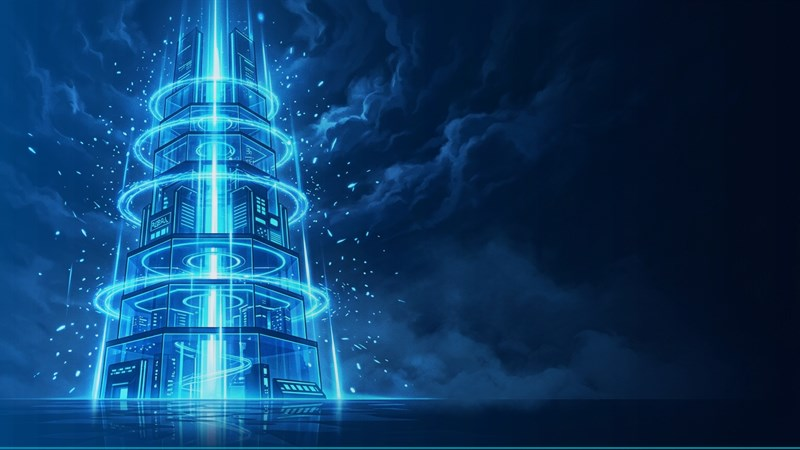
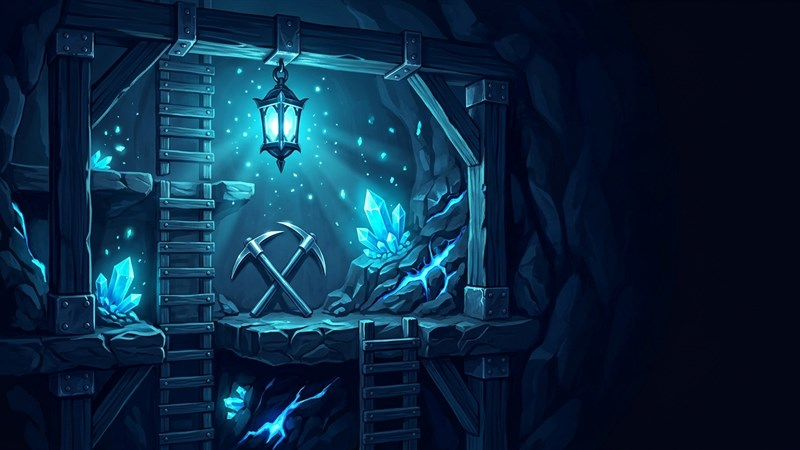
Rename Towers to Mine (Шахта), redesign card emblem and generate new blue mine cover

diff --git a/index.html b/index.html
@@ -12,7 +12,7 @@
 
     <script src="https://telegram.org/js/telegram-web-app.js"></script>
 
-    <script src="vetruch-economy.js?v=6"></script>
+    <script src="vetruch-economy.js?v=7"></script>
     <!-- Предзагрузка игр для мгновенного открытия без задержки -->
     <link rel="prefetch" href="towers.html">
     <link rel="prefetch" href="mines.html">
@@ -756,7 +756,7 @@
     filter: grayscale(40%);
 }
 
-/* ================= ШИРОКАЯ КАРТОЧКА ИГРЫ (БАШНИ) ================= */
+/* ================= ШИРОКАЯ КАРТОЧКА ИГРЫ (ШАХТА) ================= */
 .game-card.wide-card {
     grid-column: span 2;
     flex-direction: row;
@@ -4377,7 +4377,7 @@
 }
 
 /* Синие обложки игр */
-.card-towers .game-art-bg { background-image: url('game-art-towers.jpg?v=2'); background-position: 28% center; }
+.card-towers .game-art-bg { background-image: url('game-art-towers.jpg?v=3'); background-position: 28% center; }
 .card-mines .game-art-bg { background-image: url('game-art-mines.jpg?v=2'); background-position: center 22%; }
 .card-cards .game-art-bg { background-image: url('game-art-cards.jpg?v=2'); background-position: center 22%; }
 .card-balloon .game-art-bg { background-image: url('game-art-balloon.jpg?v=2'); background-position: center 20%; }
@@ -8616,51 +8616,55 @@ img {
         <div id="miniGamesSection">
         
         <div class="games-grid" style="clear: both;">
-            <!-- 1. БАШНИ (ЛЕДЯНАЯ ШАХТА) -->
-            <div class="game-card wide-card art-card card-towers anim-item" style="animation-delay: 0.05s;" onpointerdown="preloadGame('towers.html?v=7')" onclick="openGame('towers.html?v=7')">
+            <!-- 1. ШАХТА (ПОДЗЕМНЫЙ РАЗРЕЗ) -->
+            <div class="game-card wide-card art-card card-towers anim-item" style="animation-delay: 0.05s;" onpointerdown="preloadGame('towers.html?v=8')" onclick="openGame('towers.html?v=8')">
                 <div class="game-art-bg"></div>
                 <div class="game-art-scrim"></div>
                 <span class="game-card-ribbon ribbon-fire">⛏ ДО x24.5</span>
                 <div class="wide-hero-emblem emblem-towers" aria-hidden="true">
                     <svg viewBox="0 0 80 80" fill="none">
                         <defs>
-                            <linearGradient id="twBodyGrad" x1="0" y1="0" x2="1" y2="1">
+                            <linearGradient id="mineArchGrad" x1="0" y1="0" x2="1" y2="1">
                                 <stop offset="0%" stop-color="#38bdf8"/>
-                                <stop offset="55%" stop-color="#0284c7"/>
-                                <stop offset="100%" stop-color="#071a38"/>
+                                <stop offset="60%" stop-color="#0284c7"/>
+                                <stop offset="100%" stop-color="#081a36"/>
                             </linearGradient>
-                            <radialGradient id="twCoreGlow" cx="50%" cy="48%" r="50%">
-                                <stop offset="0%" stop-color="#00e5ff" stop-opacity="0.55"/>
+                            <radialGradient id="mineCoreGlow" cx="50%" cy="50%" r="50%">
+                                <stop offset="0%" stop-color="#00e5ff" stop-opacity="0.58"/>
                                 <stop offset="100%" stop-color="#00e5ff" stop-opacity="0"/>
                             </radialGradient>
                         </defs>
-                        <circle cx="40" cy="42" r="34" fill="url(#twCoreGlow)"/>
-                        <!-- Энергетический луч -->
-                        <rect x="38" y="4" width="4" height="68" rx="2" fill="#7dd3fc" opacity="0.5"/>
-                        <!-- Этажи башни -->
-                        <polygon points="18,68 62,68 57,56 23,56" fill="url(#twBodyGrad)" stroke="#38bdf8" stroke-width="1.6"/>
-                        <polygon points="22,54 58,54 54,43 26,43" fill="url(#twBodyGrad)" stroke="#7dd3fc" stroke-width="1.5"/>
-                        <polygon points="26,41 54,41 50,31 30,31" fill="url(#twBodyGrad)" stroke="#bae6fd" stroke-width="1.5"/>
-                        <polygon points="31,29 49,29 45,19 35,19" fill="#0ea5e9" stroke="#e0f7ff" stroke-width="1.5"/>
-                        <!-- Огоньки этажей -->
-                        <rect x="30" y="60" width="6" height="4" rx="1.5" fill="#e0fbff"/>
-                        <rect x="44" y="60" width="6" height="4" rx="1.5" fill="#00e5ff"/>
-                        <rect x="32" y="46.5" width="5" height="3.5" rx="1" fill="#e0fbff"/>
-                        <rect x="43" y="46.5" width="5" height="3.5" rx="1" fill="#e0fbff"/>
-                        <rect x="36" y="34" width="8" height="3.5" rx="1.2" fill="#ffffff"/>
-                        <!-- Вершина-кристалл -->
-                        <polygon class="emblem-pulse" points="40,5 47,15 40,21 33,15" fill="#e0fbff" stroke="#00e5ff" stroke-width="1.4"/>
-                        <!-- Светящиеся искры -->
-                        <circle class="emblem-pulse" cx="15" cy="30" r="2.2" fill="#00e5ff"/>
-                        <circle class="emblem-pulse" cx="65" cy="24" r="2" fill="#bae6fd"/>
-                        <ellipse cx="40" cy="70" rx="26" ry="3.5" fill="none" stroke="#00e5ff" stroke-width="1.4" opacity="0.7"/>
+                        <circle cx="40" cy="42" r="34" fill="url(#mineCoreGlow)"/>
+                        <!-- Арка шахты и каменный свод -->
+                        <path d="M12 66 L12 34 C12 18, 24 11, 40 11 C56 11, 68 18, 68 34 L68 66 Z" fill="#051329" stroke="#38bdf8" stroke-width="2"/>
+                        <path d="M18 66 L18 35 C18 22, 28 17, 40 17 C52 17, 62 22, 62 35 L62 66 Z" fill="#020a18" stroke="url(#mineArchGrad)" stroke-width="2.2"/>
+                        <!-- Вертикальная лесенка внутри шахты -->
+                        <line x1="33" y1="22" x2="33" y2="66" stroke="#38bdf8" stroke-width="2.6" stroke-linecap="round"/>
+                        <line x1="47" y1="22" x2="47" y2="66" stroke="#38bdf8" stroke-width="2.6" stroke-linecap="round"/>
+                        <line x1="33" y1="30" x2="47" y2="30" stroke="#e0fbff" stroke-width="2.2" stroke-linecap="round"/>
+                        <line x1="33" y1="40" x2="47" y2="40" stroke="#bae6fd" stroke-width="2.2" stroke-linecap="round"/>
+                        <line x1="33" y1="50" x2="47" y2="50" stroke="#bae6fd" stroke-width="2.2" stroke-linecap="round"/>
+                        <line x1="33" y1="60" x2="47" y2="60" stroke="#7dd3fc" stroke-width="2.2" stroke-linecap="round"/>
+                        <!-- Фонарь под сводом -->
+                        <circle class="emblem-pulse" cx="40" cy="21" r="3.5" fill="#e0fbff" stroke="#00e5ff" stroke-width="1.3"/>
+                        <!-- Сапфировый кристалл слева и кирка справа -->
+                        <polygon points="15,66 19,51 25,57 25,66" fill="#00e5ff" stroke="#e0fbff" stroke-width="1.1"/>
+                        <polygon points="21,66 25,55 30,61 30,66" fill="#38bdf8" stroke="#bae6fd" stroke-width="1"/>
+                        <g transform="translate(52, 49) rotate(-25)">
+                            <rect x="4" y="2" width="3" height="17" rx="1.4" fill="#7dd3fc"/>
+                            <path d="M-2 3 Q5.5 -2 13 3" stroke="#e0fbff" stroke-width="2.5" stroke-linecap="round" fill="none"/>
+                        </g>
+                        <!-- Искры кристальной пыли -->
+                        <circle class="emblem-pulse" cx="25" cy="34" r="1.8" fill="#00e5ff"/>
+                        <circle class="emblem-pulse" cx="55" cy="31" r="1.8" fill="#bae6fd"/>
+                        <line x1="9" y1="67" x2="71" y2="67" stroke="#00e5ff" stroke-width="2" stroke-linecap="round" opacity="0.8"/>
                     </svg>
                 </div>
                 <div class="wide-card-info">
-                    <div class="game-online-tag" id="onlineTagTowers" style="justify-content: flex-start;">🟢 2 в игре</div>
-                    <div class="game-title">БАШНИ</div>
-                    <div class="game-subtitle">лесенки шахты · от 20 <img src="coins.png" class="coin-icon-sm"></div>
-                    <div class="game-play-btn">ВОСХОДИТЬ ➔</div>
+                    <div class="game-online-tag" id="onlineTagTowers" style="justify-content: flex-start;">🟢 2 в шахте</div>
+                    <div class="game-title">ШАХТА</div>
+                    <div class="game-subtitle">8 уровней · от 20 <img src="coins.png" class="coin-icon-sm"></div>
+                    <div class="game-play-btn">В ШАХТУ ➔</div>
                 </div>
             </div>
             
@@ -16958,7 +16962,7 @@ function updateOnlineUsersUI(count) {
     const t4 = document.getElementById('onlineTagBalloon');
     const t5 = document.getElementById('onlineTagDice');
 
-    if (t1) t1.textContent = `🟢 ${c1} в игре`;
+    if (t1) t1.textContent = `🟢 ${c1} в шахте`;
     if (t2) t2.textContent = `🟢 ${c2} в игре`;
     if (t3) t3.textContent = `🟢 ${c3} в игре`;
     if (t4) t4.textContent = `🟢 ${c4} в игре`;
@@ -17567,7 +17571,7 @@ setTimeout(initAdvancedSystems, 300);
 
     <!-- МГНОВЕННЫЙ КОНТЕЙНЕР ДЛЯ ИГР (ПРЕДЗАГРУЖЕННЫЕ ФРЕЙМЫ 0 МС) -->
     <div id="gameModal" style="display: none; position: fixed; inset: 0; z-index: 999999; background: #000000; width: 100%; height: 100%; overflow: hidden; -webkit-overflow-scrolling: touch;">
-        <iframe id="frame-towers" src="towers.html?v=7" style="width: 100%; height: 100%; border: none; display: none;" allow="autoplay"></iframe>
+        <iframe id="frame-towers" src="towers.html?v=8" style="width: 100%; height: 100%; border: none; display: none;" allow="autoplay"></iframe>
         <iframe id="frame-mines" src="mines.html?v=5" style="width: 100%; height: 100%; border: none; display: none;" allow="autoplay"></iframe>
         <iframe id="frame-cards" src="cards.html?v=5" style="width: 100%; height: 100%; border: none; display: none;" allow="autoplay"></iframe>
         <iframe id="frame-balloon" src="balloon.html?v=6" style="width: 100%; height: 100%; border: none; display: none;" allow="autoplay"></iframe>
@@ -18424,7 +18428,7 @@ async function onChildGameWin(gameKey, winAmount) {
     }
 
     const gameNames = {
-        towers: 'Башни',
+        towers: 'Шахта',
         mines: 'Мины',
         cards: 'Карты',
         balloon: 'Шарик',

diff --git a/towers.html b/towers.html
@@ -2,11 +2,11 @@
 <html lang="ru">
 <head>
 
-<script src="vetruch-economy.js?v=6"></script>
+<script src="vetruch-economy.js?v=7"></script>
 
     <meta charset="UTF-8">
     <meta name="viewport" content="width=device-width, initial-scale=1.0, maximum-scale=1.0, user-scalable=no">
-    <title>Башни · Шахта - Vetruch</title>
+    <title>Шахта - Vetruch</title>
 
     <link rel="preconnect" href="https://fonts.googleapis.com">
     <link rel="preconnect" href="https://fonts.gstatic.com" crossorigin>

diff --git a/vetruch-economy.js b/vetruch-economy.js
@@ -10,7 +10,7 @@
 
   var GAME_KEYS = ['towers', 'mines', 'cards', 'balloon', 'dice', 'blackjack', 'slots', 'flappy'];
   var GAME_NAMES = {
-    towers: 'Башни',
+    towers: 'Шахта',
     mines: 'Мины',
     cards: 'Карты',
     balloon: 'Шарик',
